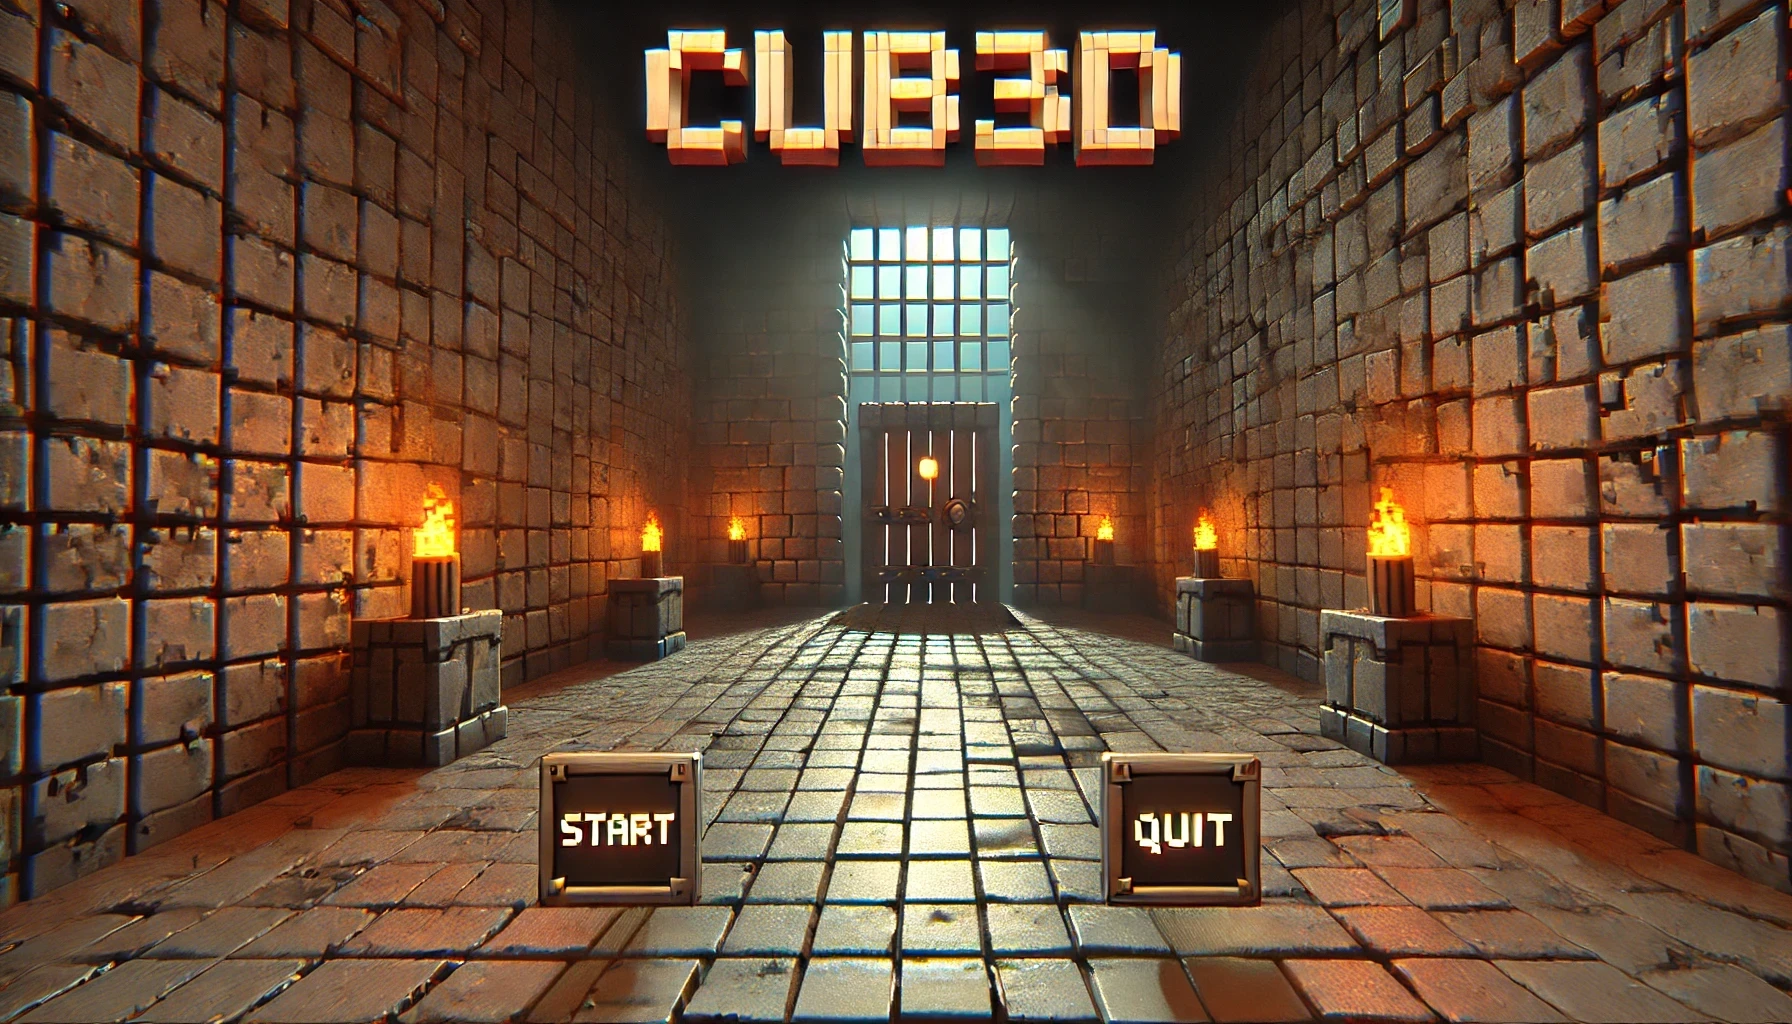
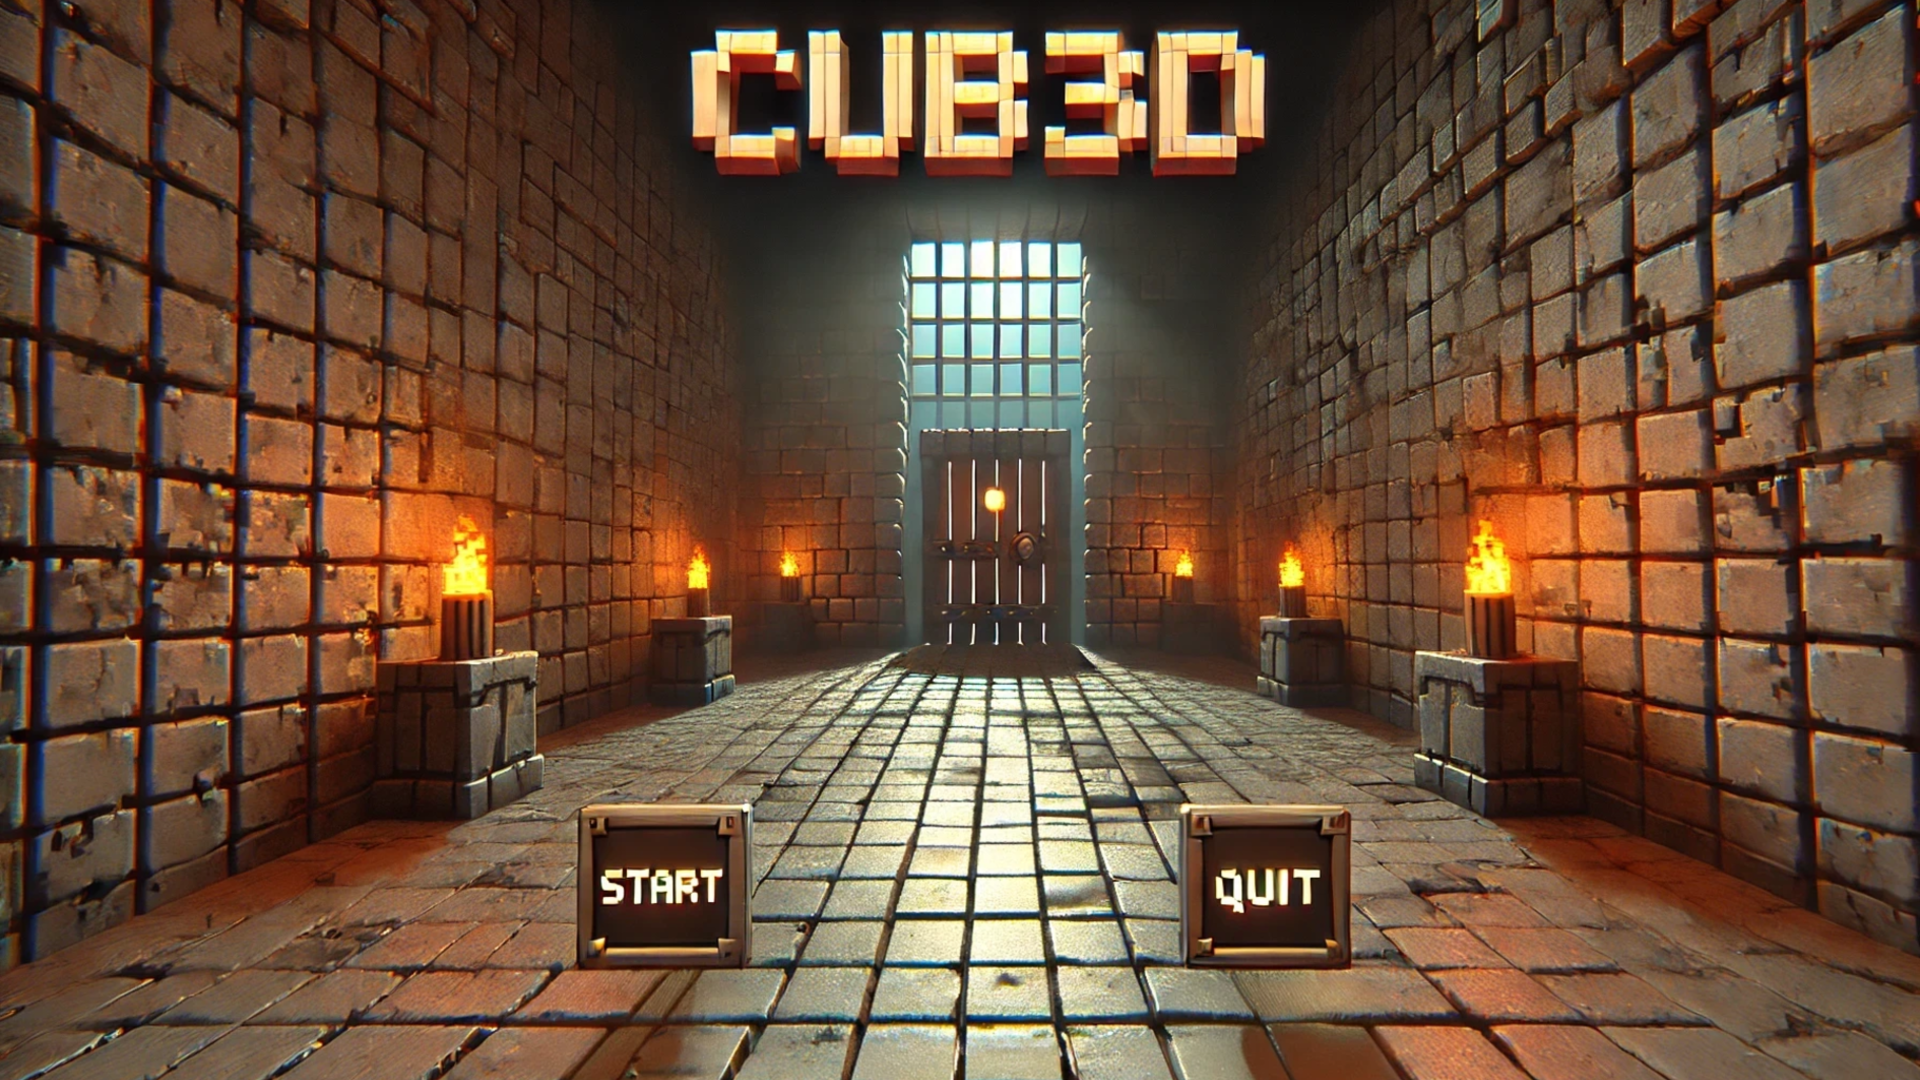
Add my_put_pixel function, improve key press handling, and update map parsing

diff --git a/src/cub3d.c b/src/cub3d.c
@@ -6,7 +6,7 @@
 /*   By: cgorin <cgorin@student.42.fr>              +#+  +:+       +#+        */
 /*                                                +#+#+#+#+#+   +#+           */
 /*   Created: 2025/01/06 16:29:12 by amagomad          #+#    #+#             */
-/*   Updated: 2025/02/08 23:53:42 by cgorin           ###   ########.fr       */
+/*   Updated: 2025/02/09 10:38:47 by cgorin           ###   ########.fr       */
 /*                                                                            */
 /* ************************************************************************** */
 
@@ -14,22 +14,35 @@
 
 void	init_menu(t_data *data)
 {
-	mlx_texture_t	*image_menu;
+	mlx_texture_t	*image_menu[5];
+
+	data->img_menu = malloc(sizeof(mlx_image_t *) * 5);
 	printf("Init menu\n");
-	image_menu = mlx_load_png("src/img/menu.png");
-	if (!image_menu)
+	image_menu[0] = mlx_load_png("src/img/menu.png");
+	image_menu[1] = mlx_load_png("src/img/menu1.png");
+	image_menu[2] = mlx_load_png("src/img/menu2.png");
+	image_menu[3] = mlx_load_png("src/img/menu3.png");
+	image_menu[4] = mlx_load_png("src/img/menu4.png");
+	if (!image_menu[0] || !image_menu[1] || !image_menu[2] || !image_menu[3] || !image_menu[4])
 	{
 		free_data(data);
 		return_error("Can't load menu image");
 	}
-	data->img_menu = mlx_texture_to_image(data->mlx, image_menu);
-	if (!data->img_menu)
+	data->img_menu[0] = mlx_texture_to_image(data->mlx, image_menu[0]);
+	data->img_menu[1] = mlx_texture_to_image(data->mlx, image_menu[1]);
+	data->img_menu[2] = mlx_texture_to_image(data->mlx, image_menu[2]);
+	data->img_menu[3] = mlx_texture_to_image(data->mlx, image_menu[3]);
+	data->img_menu[4] = mlx_texture_to_image(data->mlx, image_menu[4]);
+	if (!data->img_menu[0] || !data->img_menu[1] || !data->img_menu[2] || !data->img_menu[3] || !data->img_menu[4])
 	{
 		free_data(data);
 		return_error("Can't load menu image");
 	}
-	//mlx_image_to_window(data->mlx, data->img_menu, 0, 0);
-	mlx_delete_texture(image_menu);
+	mlx_delete_texture(image_menu[0]);
+	mlx_delete_texture(image_menu[1]);
+	mlx_delete_texture(image_menu[2]);
+	mlx_delete_texture(image_menu[3]);
+	mlx_delete_texture(image_menu[4]);
 }
 
 void	init_data(t_data *data, char **av)
@@ -95,36 +108,26 @@ bool	initialize_game(t_data *data)
 	return (true);
 }
 
+void anim_cube(t_data *data)
+{
+	static int current_frame = 0;
+	int i = 0;
+	
+	while (++i < 3)
+		data->img_menu[i]->enabled = false;
+	data->img_menu[current_frame]->enabled = true;
+	current_frame = (current_frame + 1) % 3;
+}
 
 void	draw_menu(t_data *data)
 {
-	int	x;
-	int	y;
-	int	i;
-	mlx_image_to_window(data->mlx, data->img_menu, 0, 0);
-	
+	mlx_image_to_window(data->mlx, data->img_menu[1], 558, 796);
 	if (data->selected_option == 0)
-	{
-		x = 0;
-		y = 0;
-	}
+		anim_cube(data);
 	else
-	{
-		x = 0;
-		y = 100;
-	}
-	i = x + 10;
-	while (++x <= i)
-	{
-		my_put_pixel(data, x, y, MINIMAP_BORDER_COLOR);
-		my_put_pixel(data, x, y + 10, MINIMAP_BORDER_COLOR);
-	}
-	i = y + 10;
-	while (++y <= i)
-	{
-		my_put_pixel(data, x, y, MINIMAP_BORDER_COLOR);
-		my_put_pixel(data, x + 10, MAP_OFFSET_Y + y, MINIMAP_BORDER_COLOR);
-	}
+		mlx_image_to_window(data->mlx, data->img_menu[1], 1160, 796);
+		
+	mlx_image_to_window(data->mlx, data->img_menu[0], 0, 0);
 }
 
 void	draw_pause(t_data *data)
@@ -142,7 +145,8 @@ void	render_frame(void *param)
 	{
 		if (data->img_menu)
 		{
-			mlx_delete_image(data->mlx, data->img_menu);
+			mlx_delete_image(data->mlx, data->img_menu[0]);
+			mlx_delete_image(data->mlx, data->img_menu[1]);
 			data->img_menu = NULL;
 		}
 		if (data->show_minimap)

diff --git a/src/display_minimap.c b/src/display_minimap.c
@@ -6,24 +6,21 @@
 /*   By: cgorin <cgorin@student.42.fr>              +#+  +:+       +#+        */
 /*                                                +#+#+#+#+#+   +#+           */
 /*   Created: 2025/01/25 14:28:34 by cgorin            #+#    #+#             */
-/*   Updated: 2025/02/09 00:02:24 by cgorin           ###   ########.fr       */
+/*   Updated: 2025/02/09 03:54:20 by cgorin           ###   ########.fr       */
 /*                                                                            */
 /* ************************************************************************** */
 
 #include "../includes/cub3d.h"
 
-void	my_put_pixel(t_data *data, int x, int y, int color)
+void	my_put_pixel(t_data *data, int x, int y, uint32_t color)
 {
 	uint32_t	*pixels;
 
-	if (x >= 0 && x < WIDTH && y >= 0 && y < HEIGHT || color < 0 )
-	{
-		pixels = (uint32_t *)data->img->pixels;
-		pixels[y * WIDTH + x] = color;
-	}
+	if (data->img == NULL || x < 0 || x > (int)data->img->width || y < 0 || y > (int)data->img->height)
+		return;
+	pixels = (uint32_t *)(data->img->pixels + (y * data->img->width + x) * sizeof(uint32_t));
+	*pixels = color;
 }
-
-
 
 void	draw_player(t_data *data)
 {
@@ -39,7 +36,7 @@ void	draw_player(t_data *data)
 	{
 		j = -2;
 		while (++j <= 2)
-			my_put_pixel(data, px + i, py + j, 0xFF0000FF);
+			my_put_pixel(data, px + i, py + j, BLUE);
 	}
 }
 
@@ -98,7 +95,7 @@ void	draw_direction(t_data *data)
 	end_x = player_x + dir_x * data->minimap_tile_size;
 	end_y = player_y + dir_y * data->minimap_tile_size;
 	draw_line(data, (int)player_x, (int)player_y, (int)end_x, (int)end_y,
-		0xFF0000FF);
+		RED);
 }
 
 void	draw_minimap_border(t_data *data, t_minimap mini)
@@ -134,33 +131,32 @@ void	draw_minimap_border(t_data *data, t_minimap mini)
 
 void draw_minimap_background(t_data *data, t_minimap mini)
 {
-    int y;
+	int y;
 	int x;
 
-    y = -5;
-    while (++y <= mini.map_height_px + 4)
-    {
-        x = -5;
-        while (++x <= mini.map_width_px + 4)
-        {
-            if (MAP_OFFSET_X + x <= WIDTH && MAP_OFFSET_Y + y <= HEIGHT)
-                my_put_pixel(data, MAP_OFFSET_X + x,
-				MAP_OFFSET_Y + y, 0x00000000);  // Fond transparent ou noir
-        }
-    }
+	y = -5;
+	while (++y <= mini.map_height_px + 4)
+	{
+		x = -5;
+		while (++x <= mini.map_width_px + 4)
+		{
+			if (MAP_OFFSET_X + x <= WIDTH && MAP_OFFSET_Y + y <= HEIGHT)
+				my_put_pixel(data, MAP_OFFSET_X + x,
+				MAP_OFFSET_Y + y, MINIMAP_BG_COLOR);  // Fond transparent ou noir
+		}
+	}
 }
 
 uint32_t	get_minimap_color(int tile)
 {
 	if (tile == 1)
-		return (0xFFFFFFFF); // Mur (Gris)
+		return (GREY); // Mur (Gris)
 	if (tile == 0)
-		return (0x000000FF); // Sol (Noir)
+		return (BLACK); // Sol (Noir)
 	if (tile == 2)
-		return (0xFFD700FF); // Porte (Jaune)
-	if (tile == -1)
-		return (0x00FF00FF); // Objet (Vert)
-	return (0xFFFFFFFF); // Autres (Blanc)
+		return (YELLOW); // Porte (Jaune)
+	else
+		return (GREY);
 }
 
 void	draw_minimap_interior(t_data *data)
@@ -178,7 +174,6 @@ void	draw_minimap_interior(t_data *data)
 		while (++x < data->map_width)
 		{
 			color = get_minimap_color(data->map[y][x]);
-			printf("data->map[%d][%d]: %d = %X\n", y, x, data->map[y][x], color);
 			i = -1;
 			while (++i < data->minimap_tile_size)
 			{

diff --git a/includes/cub3d.h b/includes/cub3d.h
@@ -6,7 +6,7 @@
 /*   By: cgorin <cgorin@student.42.fr>              +#+  +:+       +#+        */
 /*                                                +#+#+#+#+#+   +#+           */
 /*   Created: 2025/01/06 16:27:19 by amagomad          #+#    #+#             */
-/*   Updated: 2025/02/08 23:22:21 by cgorin           ###   ########.fr       */
+/*   Updated: 2025/02/09 09:44:03 by cgorin           ###   ########.fr       */
 /*                                                                            */
 /* ************************************************************************** */
 
@@ -23,8 +23,8 @@
 # include "../MLX42/include/MLX42/MLX42.h"
 # include "../libft/includes/libft.h"
 
-# define WIDTH 2048  // Taille de la fenêtre
-# define HEIGHT 1020
+# define WIDTH 1920  // Taille de la fenêtre
+# define HEIGHT 1080
 
 # define FOV 60  // Champ de vision
 
@@ -40,33 +40,22 @@
 # define MAP_OFFSET_X 20 // Décalage horizontal (gauche) (minimap)
 # define MAP_OFFSET_Y 20 // Décalage vertical (haut) (minimap)
 # define MINIMAP_TILE_SIZE (TILE_SIZE / 4)
-# define MINIMAP_BORDER_COLOR 0xA0A0A0FF
-# define MINIMAP_INNER_BORDER_COLOR 0x606060FF
+# define MINIMAP_BORDER_COLOR 0xFFA0A0A0
+# define MINIMAP_INNER_BORDER_COLOR 0xFF606060
 # define MINIMAP_BG_COLOR 0x00000000
 
 # define MOUSE_SENSITIVITY 0.01
 
 # define PI 3.14159265358979323846
 
-#define Black           0x0000      /*   0,   0,   0 */
-#define Navy            0x000F      /*   0,   0, 128 */
-#define DarkGreen       0x03E0      /*   0, 128,   0 */
-#define DarkCyan        0x03EF      /*   0, 128, 128 */
-#define Maroon          0x7800      /* 128,   0,   0 */
-#define Purple          0x780F      /* 128,   0, 128 */
-#define Olive           0x7BE0      /* 128, 128,   0 */
-#define LightGrey       0xC618      /* 192, 192, 192 */
-#define DarkGrey        0x7BEF      /* 128, 128, 128 */
-#define Blue            0x001F      /*   0,   0, 255 */
-#define Green           0x07E0      /*   0, 255,   0 */
-#define Cyan            0x07FF      /*   0, 255, 255 */
-#define Red             0xF800      /* 255,   0,   0 */
-#define Magenta         0xF81F      /* 255,   0, 255 */
-#define Yellow          0xFFE0      /* 255, 255,   0 */
-#define White           0xFFFF      /* 255, 255, 255 */
-#define Orange          0xFD20      /* 255, 165,   0 */
-#define GreenYellow     0xAFE5      /* 173, 255,  47 */
-#define Pink                        0xF81F
+# define WHITE 0xFFFFFFFF
+# define YELLOW 0xFF0FFFFF
+# define GREEN 0xFF789C7B
+# define BLUE 0xFFF0FF00
+# define PINK 0xFFFF0FFF
+# define BLACK 0xFF000000
+# define GREY 0xFFAAABAB
+# define RED 0xFF0000FF
 
 typedef struct s_parsing
 {
@@ -124,7 +113,7 @@ typedef struct s_data
 	int				player_y; // a enlever
 	t_state			state;
 	int				selected_option;
-	mlx_image_t		*img_menu;
+	mlx_image_t		**img_menu;
 }	t_data;
 
 typedef struct  s_minimap

diff --git a/src/handle_keypress.c b/src/handle_keypress.c
@@ -6,7 +6,7 @@
 /*   By: cgorin <cgorin@student.42.fr>              +#+  +:+       +#+        */
 /*                                                +#+#+#+#+#+   +#+           */
 /*   Created: 2025/01/29 10:35:11 by cgorin            #+#    #+#             */
-/*   Updated: 2025/02/08 11:52:27 by cgorin           ###   ########.fr       */
+/*   Updated: 2025/02/09 10:05:54 by cgorin           ###   ########.fr       */
 /*                                                                            */
 /* ************************************************************************** */
 
@@ -64,10 +64,27 @@ void	handle_keypress(mlx_key_data_t key, void *param)
 	data = (t_data *)param;
 	if (data->state == STATE_MENU)
 	{
+		if (key.key == MLX_KEY_LEFT && key.action == MLX_PRESS)
+		{
+			data->selected_option--;
+			if (data->selected_option < 0)
+				data->selected_option = 1;
+		}
+		else if (key.key == MLX_KEY_RIGHT && key.action == MLX_PRESS)
+		{
+			data->selected_option++;
+			if (data->selected_option > 1)
+				data->selected_option = 0;
+		}
 		if (key.key == MLX_KEY_ENTER)
 		{
-			data->state = STATE_GAME;
-			data->show_minimap = true;
+			if (data->selected_option == 0)
+			{
+				data->state = STATE_GAME;
+				data->show_minimap = true;
+			}
+			else if (data->selected_option == 1)
+				mlx_close_window(data->mlx);
 		}
 	}
 	if (data->state == STATE_PAUSE && key.key == MLX_KEY_P && key.action == MLX_PRESS)

diff --git a/src/parse/parsing.c b/src/parse/parsing.c
@@ -6,7 +6,7 @@
 /*   By: cgorin <cgorin@student.42.fr>              +#+  +:+       +#+        */
 /*                                                +#+#+#+#+#+   +#+           */
 /*   Created: 2025/01/06 16:30:06 by amagomad          #+#    #+#             */
-/*   Updated: 2025/02/06 04:00:04 by cgorin           ###   ########.fr       */
+/*   Updated: 2025/02/09 09:19:29 by cgorin           ###   ########.fr       */
 /*                                                                            */
 /* ************************************************************************** */
 
@@ -21,6 +21,7 @@ bool	stock_description(t_parsing *parse)
 	count = 0;
 	while (count < 6 && line)
 	{
+		free(line);
 		line = get_next_line(parse->file_fd);
 		if (!line)
 			return (false);
@@ -38,7 +39,10 @@ bool	stock_description(t_parsing *parse)
 			continue ;
 		}
 		else if (ft_isalnum(*line))
+		{
+			free(line);
 			return (false);
+		}
 	}
 	return (true);
 }

diff --git a/src/parse/map.c b/src/parse/map.c
@@ -6,7 +6,7 @@
 /*   By: cgorin <cgorin@student.42.fr>              +#+  +:+       +#+        */
 /*                                                +#+#+#+#+#+   +#+           */
 /*   Created: 2025/01/25 14:28:34 by cgorin            #+#    #+#             */
-/*   Updated: 2025/02/04 18:13:36 by cgorin           ###   ########.fr       */
+/*   Updated: 2025/02/09 09:18:22 by cgorin           ###   ########.fr       */
 /*                                                                            */
 /* ************************************************************************** */
 
@@ -20,8 +20,10 @@ bool	stock_map(t_data *data)
 
 	height = 0;
 	max_width = 0;
-	while (1)
+	line = ft_strdup("");
+	while (line)
 	{
+		free(line);
 		line = get_next_line(data->parse->file_fd);
 		if (!line)
 			break ;
